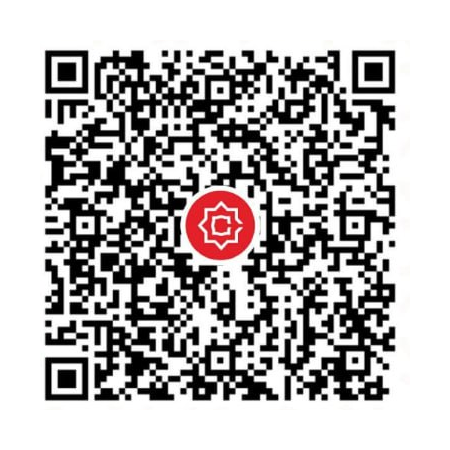
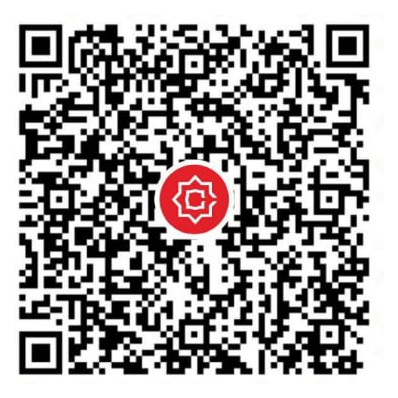
Invoice KHQR: tighten the spacing
Re-crop nova.png with a thin (14px) quiet zone instead of 40px, shrink
the corner brackets and drop the padding/margins so the pill, QR and
NOVA label sit close together instead of floating apart.

Claude-Session: https://claude.ai/code/session_01XU9x86Lh9ZZaWf6HR5xCeb

diff --git a/src/app/(app)/invoice/[orderId]/page.tsx b/src/app/(app)/invoice/[orderId]/page.tsx
@@ -227,21 +227,21 @@ export default async function InvoicePage({
         {/* 6. KHQR -- centered in the space between the Remarks and the
             closing lines, so it fills the page without a big top gap */}
         {brand.khqrUrl && (
-          <div className="flex flex-1 flex-col items-center justify-center py-8">
+          <div className="flex flex-1 flex-col items-center justify-center py-6">
             {/* "KHQR" pill */}
             <span className="rounded bg-red-600 px-2.5 py-0.5 text-[10px] font-bold tracking-wide text-white">
               KHQR
             </span>
             {/* QR with four rounded corner brackets, no outer box */}
-            <div className="relative mt-3 p-5">
-              <span className="absolute top-0 left-0 h-6 w-6 rounded-tl-lg border-t-2 border-l-2 border-zinc-400" />
-              <span className="absolute top-0 right-0 h-6 w-6 rounded-tr-lg border-t-2 border-r-2 border-zinc-400" />
-              <span className="absolute bottom-0 left-0 h-6 w-6 rounded-bl-lg border-b-2 border-l-2 border-zinc-400" />
-              <span className="absolute right-0 bottom-0 h-6 w-6 rounded-br-lg border-r-2 border-b-2 border-zinc-400" />
+            <div className="relative mt-1 p-1.5">
+              <span className="absolute top-0 left-0 h-4 w-4 rounded-tl-md border-t-2 border-l-2 border-zinc-400" />
+              <span className="absolute top-0 right-0 h-4 w-4 rounded-tr-md border-t-2 border-r-2 border-zinc-400" />
+              <span className="absolute bottom-0 left-0 h-4 w-4 rounded-bl-md border-b-2 border-l-2 border-zinc-400" />
+              <span className="absolute right-0 bottom-0 h-4 w-4 rounded-br-md border-r-2 border-b-2 border-zinc-400" />
               {/* eslint-disable-next-line @next/next/no-img-element */}
-              <img src={brand.khqrUrl} alt="KHQR" className="h-52 w-52 object-contain" />
+              <img src={brand.khqrUrl} alt="KHQR" className="h-48 w-48 object-contain" />
             </div>
-            <p className="mt-3 text-lg font-bold tracking-wide">{brand.khqrLabel}</p>
+            <p className="mt-1.5 text-lg font-bold tracking-wide">{brand.khqrLabel}</p>
           </div>
         )}
 
